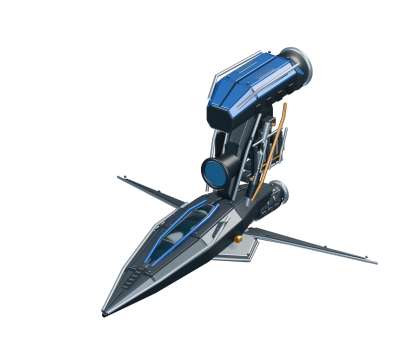
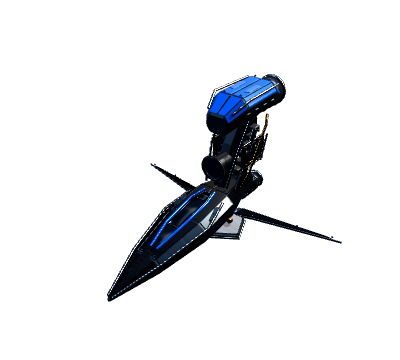
feat: add Godot material review views for every ship

Changed region(s): [[0.24, 0.1222, 0.96, 0.8861]]

diff --git a/tools/build_ship_material_review.py b/tools/build_ship_material_review.py
@@ -1,0 +1,46 @@
+"""Compose actual Godot ship finishes; check transparency and review framing."""
+import json
+import sys
+from pathlib import Path
+
+ROOT = Path(__file__).resolve().parents[1]
+sys.path.insert(0, str(ROOT / '.tools/art-python'))
+from PIL import Image, ImageDraw, ImageFont
+
+catalog = json.loads((ROOT / 'assets/ships/catalog.json').read_text())
+font_path = Path('C:/Windows/Fonts/segoeui.ttf')
+font = ImageFont.truetype(str(font_path), 26) if font_path.exists() else ImageFont.load_default(size=26)
+small = ImageFont.truetype(str(font_path), 20) if font_path.exists() else ImageFont.load_default(size=20)
+background = (13, 23, 33)
+overview = Image.new('RGB', (2400, 2344), background)
+draw = ImageDraw.Draw(overview)
+draw.text((35, 20), 'DORBIT / ACTUAL GODOT MATERIALS', font=font, fill=(225, 235, 242))
+draw.text((35, 58), 'Coated armor, exposed metal and distinct cockpit glass | same assets as flight', font=small, fill=(130, 175, 197))
+views = ['perspective', 'front', 'rear', 'side', 'top', 'underside']
+for index, (slug, entry) in enumerate(catalog.items()):
+    directory = ROOT / 'art/ship-review/materials' / slug
+    thumbnail = Image.open(ROOT / 'assets/ui/ships' / (slug + '.png')).convert('RGBA')
+    assert thumbnail.size == (400, 360) and thumbnail.getpixel((0, 0))[3] == 0, slug + ': thumbnail must be transparent'
+    bounds = thumbnail.getchannel('A').point(lambda alpha: 255 if alpha > 40 else 0).getbbox()
+    assert bounds and bounds[0] > 0 and bounds[1] > 0 and bounds[2] < 400 and bounds[3] < 360, slug + ': clipped thumbnail'
+    sheet = Image.new('RGB', (1800, 1160), background)
+    painter = ImageDraw.Draw(sheet)
+    painter.text((25, 16), entry['name'].upper() + ' / GODOT SURFACE REVIEW', font=font, fill=(225, 235, 242))
+    for number, view in enumerate(views):
+        image = Image.open(directory / (view + '.png')).convert('RGBA')
+        assert image.size == (600, 540), slug + ': wrong review size'
+        bounds = image.getchannel('A').point(lambda alpha: 255 if alpha > 40 else 0).getbbox()
+        assert bounds and bounds[0] > 0 and bounds[1] > 0 and bounds[2] < image.width and bounds[3] < image.height, slug + ': clipped ' + view
+        x, y = (number % 3) * 600, 70 + (number // 3) * 540
+        sheet.paste(image, (x, y), image)
+        painter.text((x + 20, y + 8), view.upper(), font=small, fill=(130, 175, 197))
+    sheet.save(directory / 'views.jpg', quality=93)
+    image = Image.open(directory / 'hangar.png').convert('RGB')
+    assert image.size == (900, 600), slug + ': wrong hangar size'
+    image = image.resize((780, 520), Image.Resampling.LANCZOS)
+    # Three columns preserve the render aspect ratio and common display scale.
+    x, y = 10 + (index % 3) * 800, 104 + (index // 3) * 560
+    overview.paste(image, (x, y))
+    draw.text((x + 15, y + 7), entry['name'].upper(), font=font, fill=(225, 235, 242))
+    print('REVIEW', slug, ': six unclipped views and transparent thumbnail')
+overview.save(ROOT / 'docs/feedback/ship-materials-overview.jpg', quality=93)

diff --git a/docs/ship-materials.md b/docs/ship-materials.md
@@ -1,81 +1,112 @@
-# Liberator material benchmark
+# Ship material review
 
-The Liberator now uses the same textured PBR finish in flight, the docked
-overview and its shop thumbnail. Coated blue armor, exposed satin metal,
-dark structure and copper fittings have distinct surface responses. Each fitted
-Blender component gets its own padded UV tile, with small roughness differences
-between panels and subtle tangent-space normal-map grain. Texture colors contain
-no painted lighting or reflections.
+All twelve playable ships now use the approved Liberator material treatment in
+flight, the docked overview and their shop thumbnails. Each ship retains its
+colors and geometry. Coated colored armor, exposed satin metal, dark structure
+and copper fittings have distinct surface responses. Each fitted Blender
+component gets a padded UV tile, with small roughness differences between panels
+and subtle tangent-space normal-map grain.
 
-The cockpit canopy uses dark cyan-tinted glass with a smooth dielectric finish,
-distinct from the coated blue armor. Its existing silver frame separates the
-glazing panes; the glass maps contain no brushed hull grain.
+Cockpit glazing uses dark, smooth dielectric glass, retaining blue, olive or
+amber tints while contrasting with the armor and existing frames. Glowing reactor
+lenses retain emission. Glass and lights have no brushed hull grain. The maps
+contain no painted lighting or reflections.
 
-[Godot hangar render](feedback/liberator-material-hangar.png) ·
-[Closer material view](feedback/liberator-material-detail.png) ·
-[Docked overview](feedback/liberator-material-menu.png) ·
-[Actual flight view](feedback/liberator-material-flight.png)
+[Actual Godot roster overview](feedback/ship-materials-overview.jpg)
 
-The overview renders the active hull in an isolated 3D hangar. Drag the ship to
-orbit, scroll to zoom, and double-click to reset the camera. Broad environment
-reflection strips, a key light, fill and warm rim light show the hull's curvature
-and metal. The preview caches its view after 12 settling frames, refreshes after
-camera/model/size changes, and stops drawing when hidden or after launch. Its
-lights and camera never enter the sector's world.
+| Ship | Godot hangar | Six consistent game views | Surface settings |
+| --- | --- | --- | --- |
+| Aegis | [Hangar](../art/ship-review/materials/aegis/hangar.png) | [Views](../art/ship-review/materials/aegis/views.jpg) | [Manifest](../art/ship-review/materials/aegis/manifest.json) |
+| Goliath | [Hangar](../art/ship-review/materials/goliath/hangar.png) | [Views](../art/ship-review/materials/goliath/views.jpg) | [Manifest](../art/ship-review/materials/goliath/manifest.json) |
+| Bigboy | [Hangar](../art/ship-review/materials/bigboy/hangar.png) | [Views](../art/ship-review/materials/bigboy/views.jpg) | [Manifest](../art/ship-review/materials/bigboy/manifest.json) |
+| Defcom | [Hangar](../art/ship-review/materials/defcom/hangar.png) | [Views](../art/ship-review/materials/defcom/views.jpg) | [Manifest](../art/ship-review/materials/defcom/manifest.json) |
+| Leonov | [Hangar](../art/ship-review/materials/leonov/hangar.png) | [Views](../art/ship-review/materials/leonov/views.jpg) | [Manifest](../art/ship-review/materials/leonov/manifest.json) |
+| Liberator | [Hangar](../art/ship-review/materials/liberator/hangar.png) | [Views](../art/ship-review/materials/liberator/views.jpg) | [Manifest](../art/ship-review/materials/liberator/manifest.json) |
+| Nostromo | [Hangar](../art/ship-review/materials/nostromo/hangar.png) | [Views](../art/ship-review/materials/nostromo/views.jpg) | [Manifest](../art/ship-review/materials/nostromo/manifest.json) |
+| Phoenix | [Hangar](../art/ship-review/materials/phoenix/hangar.png) | [Views](../art/ship-review/materials/phoenix/views.jpg) | [Manifest](../art/ship-review/materials/phoenix/manifest.json) |
+| Piranha | [Hangar](../art/ship-review/materials/piranha/hangar.png) | [Views](../art/ship-review/materials/piranha/views.jpg) | [Manifest](../art/ship-review/materials/piranha/manifest.json) |
+| Spearhead | [Hangar](../art/ship-review/materials/spearhead/hangar.png) | [Views](../art/ship-review/materials/spearhead/views.jpg) | [Manifest](../art/ship-review/materials/spearhead/manifest.json) |
+| Vengeance | [Hangar](../art/ship-review/materials/vengeance/hangar.png) | [Views](../art/ship-review/materials/vengeance/views.jpg) | [Manifest](../art/ship-review/materials/vengeance/manifest.json) |
+| Yamato | [Hangar](../art/ship-review/materials/yamato/hangar.png) | [Views](../art/ship-review/materials/yamato/views.jpg) | [Manifest](../art/ship-review/materials/yamato/manifest.json) |
 
-Only the Liberator receives the new surface atlas in this pass. Other active
-hulls can be inspected in the same hangar with their existing materials; extend
-the finish after reviewing this benchmark. The hull geometry remains the earlier
-concept interpretation, with less modeled detail than the generated target.
-Flight uses the sector's existing lighting, so its highlights differ from the
-controlled hangar.
+The six views come from one actual game mesh, including its underside, with
+studio fill lighting to reveal lower surfaces. Hangar views use the same camera,
+lighting and scale across the roster. The original
+[Liberator close view](feedback/liberator-material-detail.png),
+[docked overview](feedback/liberator-material-menu.png) and
+[flight capture](feedback/liberator-material-flight.png) show the accepted benchmark.
+
+Drag to orbit the docked overview, scroll to zoom, and double-click to reset.
+Broad reflection strips, a key light, fill and warm rim light show curvature and
+metal. The isolated preview caches its view after 12 settling frames, refreshes
+after camera/model/size changes, and stops drawing when hidden or after launch.
+Its lights never enter the sector. Flight retains the sector's existing lighting,
+so its highlights differ.
 
 ## Source and rebuilding
 
-[Surface maps and per-part settings](../art/ship-review/materials/liberator/manifest.json)
-are generated deterministically by [ship_surface_atlas.py](../tools/ship_surface_atlas.py)
-from the saved Blender components. The 2048 × 2048 albedo, ORM and normal maps
-are embedded in `assets/ships/liberator.glb`. ORM contains roughness in green and
-metallic in blue; red is 1 because no ambient-occlusion bake is supplied.
+[ship_surface_atlas.py](../tools/ship_surface_atlas.py) deterministically generates
+three 2048 × 2048 maps per ship from its saved Blender components: albedo, ORM
+and tangent-space normal. Source maps and per-part settings live under
+`art/ship-review/materials/<ship>/`. Each manifest records the material role,
+tint, roughness and metallic response. ORM stores roughness in green and metallic
+in blue; red is 1 because no ambient-occlusion bake is supplied.
 
-The glTF export shares three image/sampler entries. Godot's
-[import hook](../tools/import_liberator.gd) also shares the three compressed texture
-resources across all ten material surfaces and restores the blue paint clearcoat.
-The GLB retains its single mesh, 98,228 base triangles, centered 7 m bounds and
-forward orientation. It grows from 2,016,468 to 7,823,272 bytes with UVs and maps.
-The saved `.blend` file remains the editable geometry source.
+Maps are embedded in each `assets/ships/<ship>.glb`. The exporter shares three
+image/sampler entries; the [Godot import hook](../tools/import_ship_materials.gd)
+shares three compressed texture resources across all of that hull's material
+surfaces and restores clearcoat for colored paints. Source maps and review
+pictures are excluded from the game pack by `art/.gdignore`.
+
+Every export retains one mesh, its existing material count and base triangles,
+centered 7 m bounds and forward orientation. The roster retains 762,142 base
+triangles. Maps and UVs add download and texture-memory costs; Godot generates
+mesh LODs and imports embedded maps with Basis Universal compression. Saved
+Blender studies remain the editable geometry and studio finish source; runtime
+surface maps are authored during export.
+
+Combined GLB size grows from 22,559,412 to 81,352,700 bytes for this roster pass.
+The accepted Liberator GLB is unchanged at 7,823,272 bytes. Other hulls receive
+the maps and UVs without adding triangles or material surfaces.
 
 From the repository root, using Blender 5.2.2 and Godot 4.7.2 (adjust paths):
 
 ```powershell
-rtk proxy "C:/Program Files/Blender Foundation/Blender 5.2/blender.exe" --background --factory-startup --python-exit-code 1 --python tools/export_ships.py -- liberator
+rtk proxy "C:/Program Files/Blender Foundation/Blender 5.2/blender.exe" --background --factory-startup --python-exit-code 1 --python tools/export_ships.py
 rtk proxy .tools/godot/Godot_v4.7.2-stable_win64_console.exe --headless --path . --editor --import
-rtk proxy .tools/godot/Godot_v4.7.2-stable_win64_console.exe --path . --script tools/render_ship_preview.gd
+rtk proxy .tools/godot/Godot_v4.7.2-stable_win64_console.exe --path . --script tools/render_ship_preview.gd -- --review
+rtk proxy python tools/build_ship_material_review.py
+rtk proxy .tools/godot/Godot_v4.7.2-stable_win64_console.exe --headless --path . --editor --import
 ```
 
-The exporter accepts lowercase ship IDs after `--` and preserves other export
-statistics when selecting a subset. The Liberator thumbnail is rendered in Godot
-after import; exporting Blender geometry does not replace it with the earlier
-studio finish. Thumbnail rendering requires a graphics display.
+Without ship IDs the exporter and thumbnail renderer process the whole roster.
+Pass lowercase IDs after `--` to select a subset; export statistics for other
+ships are preserved. The renderer's `--review` flag adds hangar and six mesh
+views; without it, only shop thumbnails are rebuilt. Rendering requires a
+graphics display. The final import refreshes shop thumbnails for the game pack.
 
 ## Validation
 
 Checked with Godot's Compatibility renderer on Windows:
 
+- All twelve source and packaged hulls retain finite geometry, centered bounds,
+  UVs, three shared maps, coated colored paint and smooth, dark cockpit glazing.
+  Texture samples check that glass contrasts with paint and stays dielectric.
+  Reactor and engine lenses retain emission.
+- Twelve actual hangar views, 72 consistent mesh views and twelve transparent
+  shop thumbnails are rendered in Godot. Review composition checks framing.
 - Hangar replay: 15 rendered checks and 9 headless checks pass, including real
   mouse orbit/zoom, world isolation, hull replacement and rendering suspension.
 - Main-menu replay: 105 checks pass, including layouts at 960 × 600 and
   1440 × 900, authoritative hull switching, preparation and launch.
-- Ship replay: 211 checks pass, with the textured Liberator loaded in flight.
-- Both source assets and an exported Windows PCK retain UVs, all three shared
-  maps, coated paint, all twelve hulls, bounds, materials and previews.
-  Texture samples also verify that cockpit glass stays darker and smoother
-  than the armor, with a dielectric response.
-- The hangar also renders successfully from the exported PCK, including its
-  shaders and textures. Python compilation and diff checks pass.
+- Offline main-menu replay: 28 checks pass.
+- Ship replay: 211 checks pass with the roster loaded in flight.
+- Windows PCK export, packaged asset checks and native render checks for all
+  twelve packaged hulls pass. Python compilation, local document links and
+  diff checks pass.
 
 These checks establish import, packaging and interaction behavior. They do not
-measure representative ten-player performance or establish final art acceptance.
-Texture memory and initial shader compilation add costs despite unchanged
-triangle and material counts. A complete Windows executable export and Linux
-execution are left to PR CI.
+measure representative ten-player performance or establish final art acceptance
+for the remaining ships. Complete Windows executable export and Linux execution
+are left to PR CI. Generated concepts retain more modeled detail than these
+authored hulls.

diff --git a/docs/ships.md b/docs/ships.md
@@ -94,10 +94,10 @@ them. Run Blender in background mode with `--python tools/export_ships.py`.
 The exporter removes the studio and references, consolidates each hull into
 one mesh with material surfaces, reduces bevel subdivisions, retains evaluated
 normals and PBR colors, and normalizes the bounding diameter to 7 m. Godot's
-imported nose points -Z with +Y up. The [Liberator material benchmark](ship-materials.md)
-adds portable surface maps, shared texture resources and a live docked hangar
-preview. Its thumbnail is rendered in Godot; other hull previews derive from the
-revised Blender renders, with procedural studio grain omitted. The existing simple collision
+imported nose points -Z with +Y up. The [ship material finish](ship-materials.md)
+adds portable surface maps and shared texture resources to every hull, with a
+live docked hangar preview. All shop thumbnails and material review views are
+rendered in Godot using the actual game finishes. The existing simple collision
 sphere and chase camera remain shared across hulls; these are approximate game
 sizes, since PR 14 supplied no physical scale. Godot generates mesh LODs on
 import. The dedicated server never instantiates hull render meshes.

diff --git a/README.md b/README.md
@@ -198,8 +198,9 @@ rendered window to capture the overview and station pages at 960 x 600 and
 [Hangar](docs/menu-design/hangar-implemented.png) show the current layout.
 
 The docked overview now has a live ship preview: drag to rotate, scroll to zoom,
-or double-click to reset. The [Liberator material benchmark](docs/ship-materials.md)
-uses textured coated armor and exposed metal in both the hangar and flight.
+or double-click to reset. The [ship material review](docs/ship-materials.md)
+shows all twelve hulls with textured coated armor, exposed metal and distinct
+cockpit glass in both the hangar and flight.
 
 Downloading an artifact from the validation workflow does not deploy its server. To playtest an open PR, run **Actions > Deploy preview** for that PR, download the Windows client from that preview run and connect to the preview address and UDP port. See [preview playtesting](DEPLOYMENT.md#preview-a-pr-before-merging) for setup. Production uses its own matching release client. Incompatible client/server RPC definitions are rejected during connection with a build-mismatch message, before combat starts. This handshake requires both sides to be updated; older servers are rejected too.
 

diff --git a/art/ship-review/README.md b/art/ship-review/README.md
@@ -10,10 +10,12 @@ cap becomes a small tip. Its plating, cockpit and cheek fittings follow the
 revised hull; the paired rear turbines and swept wings retain their recognizable
 arrangement.
 
-The Liberator now has a [Godot material benchmark](../../docs/ship-materials.md)
-with per-component surface maps and a live hangar view. These runtime maps are
-authored from the saved model during export; the Blender renders below continue
-to document the geometry and studio finish.
+All twelve ships now share the approved [Godot material finish](../../docs/ship-materials.md)
+with per-component surface maps, distinct cockpit glass and a live hangar view.
+The [Godot roster overview](../../docs/feedback/ship-materials-overview.jpg) and
+per-ship six-view sheets in that material review show the actual game assets.
+These runtime maps are authored from the saved model during export; the Blender
+renders below continue to document the geometry and studio finish.
 
 | Ship | Blender file | Catalogue comparison | Six-view sheet |
 | --- | --- | --- | --- |

diff --git a/GAME_PLAN.md b/GAME_PLAN.md
@@ -436,8 +436,11 @@ The Liberator is the first in-game material benchmark: fitted panels receive
 individual roughness variation and subtle normal-map grain, with coated blue
 armor separated from exposed metal. The docked overview shows the active hull
 in a lit, rotatable 3D hangar using the same mesh and materials as flight.
-Its isolated preview renders on demand and stops when hidden. Extend the finish
-to the other ships after reviewing this benchmark.
+Its isolated preview renders on demand and stops when hidden. The user accepted
+the Liberator finish and distinct cockpit glass, then requested the same treatment
+across the remaining roster. All twelve hulls use portable surface maps, coated
+colored armor, exposed metal and dark tinted cockpit glazing; Godot review views
+and shop thumbnails show the actual game finishes.
 
 This is presentation work on the existing roster within the current milestone.
 Ship statistics, collision size, equipment, ownership and progression retain
